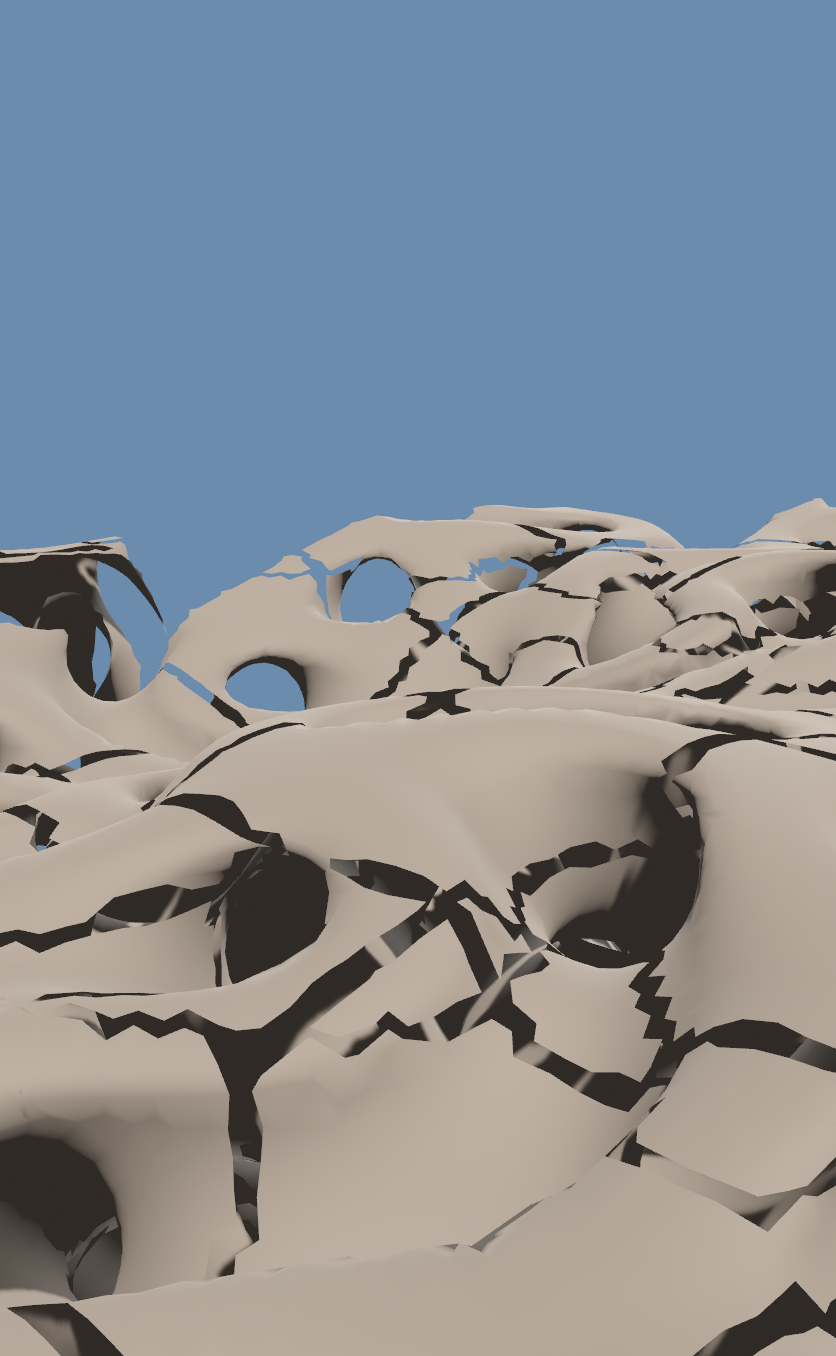
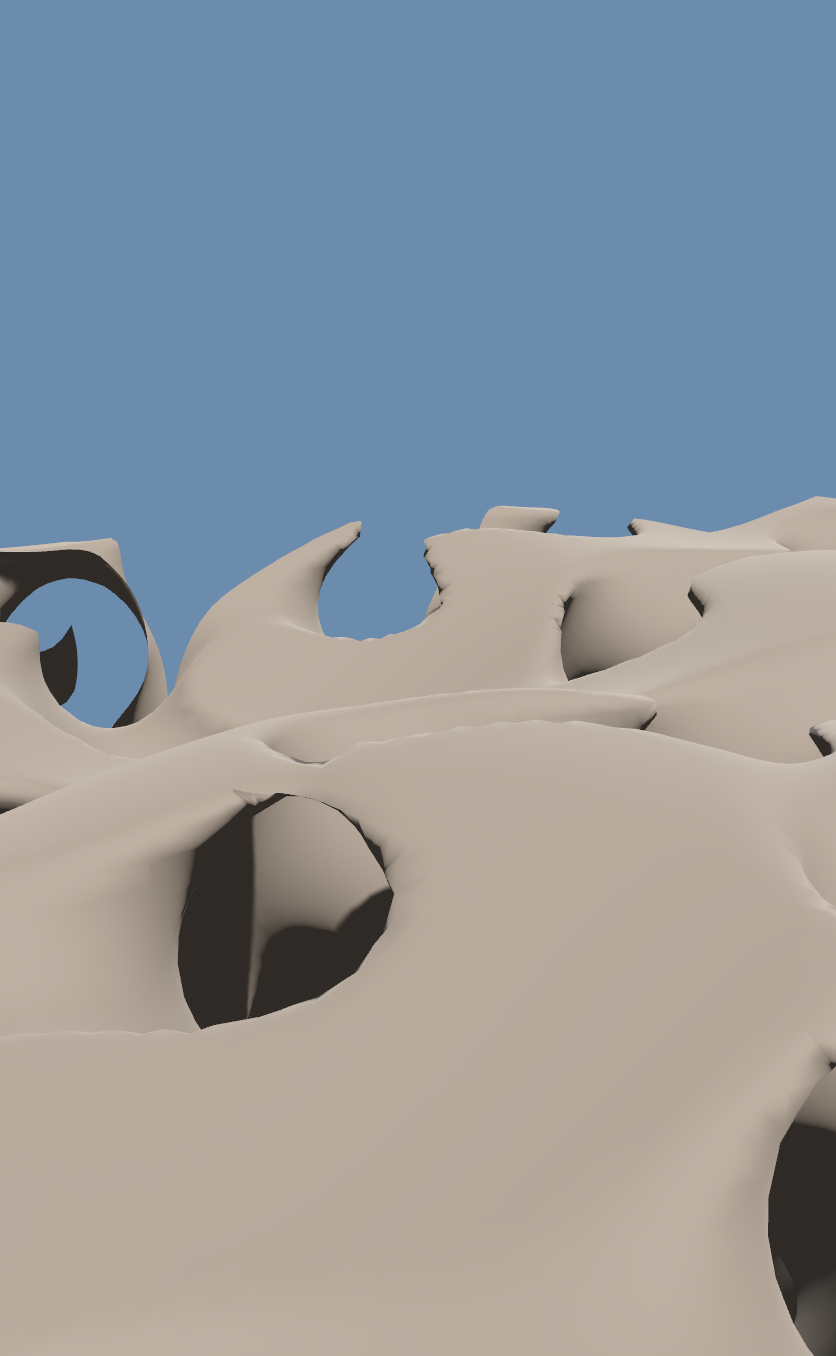
fix: the hero GIF was a cracked world, and the reason is structural
Reported by the user looking at the README's lead image and saying the gaps were
broken. They were.

game_showcase had been switched from Surface Nets to Dual Contouring during the
aliasing investigation in the previous commit and never switched back, so the
world it shipped was torn by long stair-stepped slashes at exactly the chunk
pitch. Switching to Marching Cubes removes every one of them.

The cause is not a bug in Dual Contouring; it is one-vertex-per-cell meeting
independently meshed chunks (M-128). Marching Cubes places vertices on grid
EDGES, which two neighbouring chunks compute from identical corner values and
therefore agree on exactly. A dual method places one vertex per cell INTERIOR,
and a boundary quad needs the *neighbour's* vertex, which the chunk does not
have -- so it stops short and leaves a gap.

Measured rather than inferred from the picture. Two adjacent chunks meshed
independently and welded, counting boundary edges lying in the shared plane and
excluding the block's own outer walls:

  marching_cubes    0
  surface_nets      5
  dual_contouring   4

Every existing streaming demo uses Marching Cubes, which is why twenty tickets
of chunked worlds had never caught this.

Filed as B-006, because the real defect is that IsomeshPlugin offers
Extractor::DualContouring and Extractor::SurfaceNets on a chunked VoxelVolume
with nothing to say about it, and one careless edit put a cracked world on the
[…]

Changed region(s): [[0.0, 0.3407, 1.0, 1.0], [0.5598, 0.8982, 0.622, 0.9292], [0.2488, 0.9292, 0.2799, 0.9602]]

diff --git a/bevy_isomesh/examples/game_showcase.rs b/bevy_isomesh/examples/game_showcase.rs
@@ -44,6 +44,20 @@
 //! streaming budget are all on screen, because a showcase that hides its cost is
 //! the thing this repository exists not to be.
 //!
+//! # Why Marching Cubes, and not the sharper extractors
+//!
+//! Because this world is **chunked**, and the dual methods do not tile. Marching
+//! Cubes places vertices on grid *edges*, which two neighbouring chunks compute
+//! from identical corner values and agree on exactly. Surface Nets and Dual
+//! Contouring place one vertex per cell *interior*, and a boundary quad needs the
+//! neighbour's vertex — which the chunk does not have, so it stops short.
+//!
+//! Measured on two adjacent chunks, boundary edges lying in the shared plane:
+//! **Marching Cubes 0, Surface Nets 5, Dual Contouring 4** (M-128). This example
+//! shipped on Dual Contouring for one commit, having been switched during an
+//! unrelated aliasing investigation, and the README's lead image was a cracked
+//! world until someone looked at it.
+//!
 //! # Scope
 //!
 //! Streaming, budgeting and the field. **Carving is deliberately not here** —
@@ -81,8 +95,8 @@ const HYSTERESIS: f32 = 0.25;
 /// leaves caves that connect and rock that hangs over open ground.
 #[derive(Clone, Copy)]
 struct CaveWorld {
-    /// Wall thickness of the gyroid shell, in world units. Larger is more solid
-    /// rock and smaller caves.
+    /// Iso-level on the gyroid: rock is `g < thickness`. Larger is more rock
+    /// and narrower tunnels.
     thickness: f32,
 }
 
@@ -107,10 +121,17 @@ impl Sdf for CaveWorld {
             + (K * p[1]).sin() * (K * p[2]).cos()
             + (K * p[2]).sin() * (K * p[0]).cos();
 
-        // Intersection: below the surface AND within the gyroid's shell. The
-        // shell is `|g| < thickness`, which is the sponge rather than either of
-        // the two labyrinths it separates -- that is the form with rock both
-        // above and below you.
+        // Intersection: below the surface AND inside one of the two labyrinths
+        // the gyroid separates.
+        //
+        // **`g - level`, not `|g| - thickness`.** The absolute value gives the
+        // *shell* around the gyroid surface, and a shell's thickness is
+        // `2t/|grad g|`, which varies: wherever the gradient is steep the sheet
+        // pinches below a cell and the mesher tears it into stair-stepped
+        // slashes. Thickening the shell moves the pinch without removing it,
+        // because the pinch is where the shell's own rim is. One side of the
+        // labyrinth has no rim and no thin sheets -- it is bulk rock with
+        // tunnels through it, which is what a cave is.
         //
         // **Smoothed, and not for looks.** A hard `max` puts a knife edge
         // wherever the two surfaces cross, and that rim is thinner than a cell
@@ -123,7 +144,7 @@ impl Sdf for CaveWorld {
         //
         // `smooth_max(a, b) = -smooth_min(-a, -b)`.
         const BLEND: f32 = 0.7;
-        -smooth_min(-ground, -(g.abs() - self.thickness), BLEND)
+        -smooth_min(-ground, -(g - self.thickness), BLEND)
     }
 }
 
@@ -170,20 +191,15 @@ fn layout() -> ChunkLayout<f32> {
     ChunkLayout::new(CHUNK_CELLS, CELL_SIZE, [0.0; 3]).expect("a valid layout")
 }
 
-/// Shell thickness, in world units.
+/// How much of the labyrinth is rock.
 ///
-/// **The default is not the thinnest option, and that is M-72's rule applied to
-/// a field rather than to an extractor.** A shell of thickness `t` is a sheet
-/// `2t` thick, so `0.55` is 2.2 cells at this spacing — thin enough that its
-/// silhouette staircases, which is the aliasing M-72 documents for features near
-/// the sampling limit. `0.85` is 3.4 cells and holds its edges, with no fewer
-/// holes to look through. `[1]` is still there for anyone who wants to see the
-/// failure.
+/// The gyroid runs about `-1.5..1.5`, and `g < level` selects the solid side, so
+/// `0.0` is an even split and larger is more rock with narrower tunnels.
 fn thickness_for(step: u8) -> f32 {
     match step {
-        0 => 0.55,
-        1 => 0.85,
-        _ => 1.15,
+        0 => -0.35,
+        1 => 0.25,
+        _ => 0.85,
     }
 }
 
@@ -232,7 +248,7 @@ fn setup(
     let volume = commands
         .spawn(
             VoxelVolume::new(layout(), CaveWorld { thickness })
-                .with_extractor(Extractor::DualContouring),
+                .with_extractor(Extractor::MarchingCubes),
         )
         .id();
 
@@ -323,7 +339,7 @@ fn controls(
                         thickness: show.thickness,
                     },
                 )
-                .with_extractor(Extractor::DualContouring),
+                .with_extractor(Extractor::MarchingCubes),
             )
             .id();
     }
@@ -420,7 +436,7 @@ fn hud(
     stats.triangles = triangles;
     stats.extra = vec![
         format!(
-            "{:<24} {:>8.2}   gyroid shell thickness  [1] [2] [3]",
+            "{:<24} {:>8.2}   gyroid iso-level, rock is g < this  [1] [2] [3]",
             "cave density", show.thickness
         ),
         format!(
@@ -428,11 +444,11 @@ fn hud(
             "stream radius", show.view
         ),
         String::new(),
-        "solid(p) = max( p.y - height(x,z) , |gyroid(p)| - thickness )".into(),
+        "solid(p) = max( p.y - height(x,z) , gyroid(p) - level )".into(),
         String::new(),
         "a max is an intersection: rock exists where a point is BELOW the".into(),
-        "surface and INSIDE a thickened gyroid. the gyroid is triply periodic,".into(),
-        "so it tunnels in x, y and z -- which is why there are ceilings.".into(),
+        "surface and INSIDE the gyroid labyrinth. it is triply periodic, so it".into(),
+        "tunnels in x, y and z -- which is why there are ceilings.".into(),
         String::new(),
         "none of this has a height. a heightfield stores one number per column".into(),
         "and cannot represent an arch, a cave, or the rock you are under right".into(),

diff --git a/FINDINGS.md b/FINDINGS.md
@@ -498,6 +498,7 @@ search: the suspect is the gather in `emit_quads`, whose `z`-stride is `n²` cel
 | M-79 | **Subgrid MT's conformity is locality plus a shared vertex ordering — it is emphatically *not* invariance under relabelling, and the difference is testable.** §3.1 promises *"identical curves on triangles shared by neighboring tetrahedra"*, and the obvious reading — that the construction is symmetric in a face's corners — is **false**. Step 3(b) skips *"the first residual point along oriented edge `ij` (assuming a canonical orientation `i < j`)"*, so swapping `i` and `j` skips the point at the other end: measured on `e = (3, 0, 0)`, one labelling pairs crossings `{1, 2}` and the swapped one pairs `{0, 1}`. What is actually true is **locality**: a face's segments are a function of that face's own three edge coordinates and nothing else, verified over 4,096 configurations against all 64 fillings of the three edges a neighbouring tet would differ on. Two tets share the face's *global* vertex indices, so they agree on `i < j` without communicating | A-014b. The first version of the test asserted the symmetry and failed, which is how this was found. **The construction depends on vertex order by design and that is safe** — but only because the ordering is global. A mesh that renumbered vertices per tet would crack along every shared face, and nothing in the paper's phrasing warns you |
 | M-105 | **E-203's first run reported 439 holes and a verdict of "G-001's overlap is wrong" — and the bug was in the test, one operator wide.** A probe misses only counts as a hole once **every** chunk layer that could hold the surface has been meshed; the guard said `||` where it must say `&&`, so a column whose surface sat in the one layer still in the meshing queue reported a gap. Diagnosed by printing the field at the offending points rather than by reasoning: `f(y = 0) = +0.42`, `f(y = −4) = −3.58` put the surface at `y ≈ −0.42`, in layer −1, and `colliders[−1] = false` — that layer had not meshed yet. Corrected, the same run gives **495 seam crossings, 0 holes** | E-203. **The rule this instance argues for is already in CLAUDE.md** — *"when investigating whether an issue is fixed, actually inspect the underlying data/code first; do not assume a file is broken"* — and it applies with more force when the test is *newer than the code it accuses*. G-001 has M-32, M-46 and M-69 behind it; a two-hour-old probe sweep does not, and the prior should be weighted accordingly |
 | V-22 | *(settled at E-206b: adopted as a `bevy_isomesh` **dev-dependency only**, `avian3d` 0.7.0, which compiles clean against Bevy 0.19. **It costs a duplicate `glam`** — Avian pulls `parry3d` 0.27, which brings `glam` 0.33 alongside Bevy's pinned 0.32, exactly the silent double-compile `CLAUDE.md` warns about. Confined to `[dev-dependencies]`, so no consumer inherits it.)* **Avian has not been evaluated for this project — it appears once in the research, incidentally, as evidence about *release cadence* rather than as a physics choice.** `docs/research/2026-08-11-meshing-crate-architecture.md:133` cites `avian3d` 0.7.0 shipping the day after Bevy 0.19 to argue that a Bevy wrapper rides Bevy's train, and its comparison table lists **`bevy_rapier3d` (55,916)** as the Bevy physics data point. Measured 2026-08-13: **`avian3d` 0.7.0 at 127,279** 90-day downloads against **`bevy_rapier3d` 0.36.0 at 56,538** — so the doc's table names the *less* used of the two by a factor of 2.25, and `parry3d` itself is 596,889, an order above both | Queried from crates.io, and the repository the user cited (`github.com/avianphysics/avian`) is the one crates.io lists — verified rather than recalled. **What does not change:** Avian is built on parry, so the geometry contract is the one G-005 already encodes — welded, manifold, correctly wound — and M-69 measured its cost at 72 boundary edges per seam. **What it would change:** E-204's *"debris becomes rigid bodies"*, E-207 and E-209 need simulation, which a raycast cannot provide, and E-206b needs a capsule that slides. **Where it must not go:** `crates/isomesh` (rule 2), and arguably not `bevy_isomesh`'s `[dependencies]` either — the plugin stops at `Handle<Mesh>` precisely so a consumer picks their own renderer, and picking their physics engine for them is the same mistake |
+| M-128 | **The dual methods do not tile across chunk boundaries and Marching Cubes does — measured, after the defect shipped in a README GIF.** Two adjacent chunks meshed independently and welded, `Waves` field, 16 cells at 0.25, counting boundary edges lying in the shared plane and excluding the two-chunk block's own outer walls: **`marching_cubes` 0, `surface_nets` 5, `dual_contouring` 4**. The mechanism is the one-vertex-per-cell rule: Marching Cubes places vertices on grid **edges**, which two neighbouring chunks compute from identical corner values and therefore agree on exactly, while a dual method places one vertex per cell **interior** and a boundary quad needs the *neighbour's* vertex, which the chunk does not have | E-210, found because the user looked at the hero GIF and said the gaps were broken. **It shipped.** The showcase was switched to `DualContouring` during an unrelated aliasing investigation and never switched back, so the README's lead image was a cracked world for one commit. Switching to `MarchingCubes` removed every slash. **Consequence:** `IsomeshPlugin` exposes `Extractor::DualContouring` and `Extractor::SurfaceNets` on a chunked `VoxelVolume` with no warning, and choosing either silently produces a cracked world — B-006. Every existing streaming demo uses Marching Cubes, which is why nothing had caught it |
 | M-126 | **`BrushOp::commutes_with` is sound *and tight* — on eight overlapping brushes it called all seven adjacent pairs correctly, with zero unsound and zero conservative answers.** Audited by swapping every adjacent pair in an edit log, re-folding the world and comparing an FNV-1a hash over every position and index against what the predicate promised: **5 pairs said commute and the mesh was bit-identical** (M-36's case), **2 said no and the mesh moved** (M-37's case), **0 promised commutation and moved** — the only genuinely wrong answer — and **0 refused a commutation that actually held**. Undo/redo round-trips bit-identically over the same hash, and the check asserts the undone state *differed* so it cannot pass on a no-op | E-207. **The predicate answers on operations alone and cannot see shapes, which is where its conservatism lives.** The first fixture moved each brush ~3 units against radii of ~1, so every pair was disjoint — and disjoint brushes commute whatever their ops are, so the two add/subtract boundaries came back **conservative**: `commutes_with` said no, the mesh was unchanged. **This refines M-37 rather than contradicting it:** order matters across an add/subtract boundary *when the shapes overlap*, and M-37's 40,320-ordering sweep was on overlapping brushes |
 | M-127 | **A fixture built to demonstrate that order matters reported 0 of 7 pairs where order mattered.** E-207's first scripted sequence moved each brush's centre by roughly 3 units between ops while the radii were about 1, so consecutive brushes never touched and every add/subtract boundary commuted anyway. The audit was working perfectly and had nothing to find. Fixed by lowering the path frequencies until consecutive centres sit ~1.5 apart, inside the sum of the radii, at which point 2 of 7 pairs stop commuting | E-207. **Eighth instance this session of a fixture that could not exhibit the property it was chosen for** (M-107, M-112, M-113, M-115, M-117, M-119, M-120's control), and the second where the *demo of a defect* was the thing that could not show the defect. Part 5's rule — search for a fixture that exhibits the property rather than picking one that looks like it should — is now the most-cited rule in the file |
 | M-124 | **The amortized cost per frame is the number a game spends, and it tracks the budget to within one chunk across a 320x range of budgets.** 288 chunks re-meshed under `DirtySet::mesh_within_budget`, budget swept from 25 us to 8 ms, 2,360 frames each. Chunks per frame **1.00, 1.02, 3.49, 15.15, 28.80, 96.02**; mean cost per frame **0.085, 0.087, 0.251, 1.016, 1.905, 6.269 ms** against budgets of 0.025, 0.05, 0.2, 1, 2 and 8 ms. Above a few chunks the mean lands within 5% under the budget asked for, which is the figure a frame actually pays and the one no paper reports — papers report throughput, and a game cannot spend throughput | E-206. **The control is what makes the flat line mean anything:** the identical queue through `mesh_dirty` costs **20.62 ms in a single frame**, missing a 16.7 ms frame outright, against a budgeted **peak of 2.10 ms** — a **9.8x lower peak for exactly the same total work**. A budget does not make meshing cheaper; it decides which frame pays |

diff --git a/BACKLOG.md b/BACKLOG.md
@@ -6,7 +6,7 @@
 `docs/2026-08-11-implementation-brief.md` (the how),
 `docs/2026-08-11-bevy-examples-catalog.md` (example detail), `docs/research/` (the why).
 
-**71 tickets archived, 15 open.** Completed rows move to `BACKLOG_ARCHIVE.md` with their amendments
+**71 tickets archived, 16 open.** Completed rows move to `BACKLOG_ARCHIVE.md` with their amendments
 attached — read that before re-litigating a decision this project already made.
 
 ---
@@ -97,6 +97,10 @@ nearest-first, and the caller's own clock decides when to stop.
 |---|---|---|---|---|
 
 ---
+
+| | ID | Ticket | Size | Blocked by |
+|---|---|---|---|---|
+| ☐ | **B-006** | **`Extractor::DualContouring` and `Extractor::SurfaceNets` produce a cracked world on a chunked `VoxelVolume`, and the plugin says nothing (M-128).** Measured on two adjacent chunks: boundary edges in the shared plane are **0 for Marching Cubes, 5 for Surface Nets, 4 for Dual Contouring**. The mechanism is structural rather than a bug — a dual method's boundary quad needs the neighbour cell's vertex and a chunk does not have it — so this is not a fix to the extractors. **What is wrong is that the plugin offers the choice silently.** It shipped a cracked world into the README's lead GIF for one commit because the extractor had been switched during an unrelated investigation and nothing flagged it. **Acceptance:** either the plugin refuses the combination, or `VoxelVolume::with_extractor` documents it at the call site *and* a test pins the three seam counts so the numbers cannot drift. Do **not** "fix" it by welding across chunks — that is G-001's overlap doing a dual method's job and would hide the structural fact. | S | — |
 
 ## Phase 4 — Examples
 

diff --git a/docs/demos/gameplay.md b/docs/demos/gameplay.md
@@ -28,7 +28,15 @@ solid(p) = max( p.y − height(x, z) ,  |gyroid(p)| − thickness )
 The gyroid tunnels in all three axes, so intersecting it with the space under a terrain surface leaves
 caves that connect, arches, and rock overhead. Press `1`, `2`, `3` to thin or thicken the shell.
 
-Two things worth knowing about how it got there. The gyroid's period **is** the look — the first
+**It is meshed with Marching Cubes, and that is not a preference.** The world is chunked, and the dual
+methods do not tile across a chunk boundary: Marching Cubes puts vertices on grid *edges*, which two
+neighbouring chunks compute identically, while Surface Nets and Dual Contouring put one vertex per cell
+*interior* and a boundary quad needs the neighbour's vertex. Measured on two adjacent chunks, boundary
+edges in the shared plane: **Marching Cubes 0, Surface Nets 5, Dual Contouring 4**. This demo shipped on
+Dual Contouring for exactly one commit and the GIF above was a torn, slashed mess until someone looked
+at it (M-128).
+
+Two other things worth knowing about how it got there. The gyroid's period **is** the look — the first
 attempt used `K = 0.19`, a 33 m period, where one tunnel is wider than the view and the world reads as
 a cracked plain rather than as caves. And the staircasing along the rim where the two surfaces meet
 turned out to be the **field's** aliasing, not the extractor's: swapping Surface Nets for Dual
